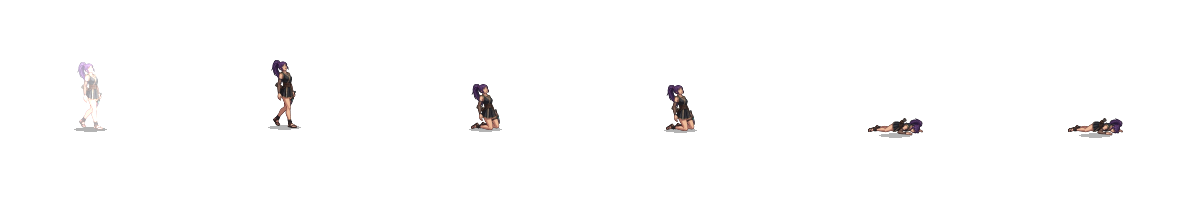
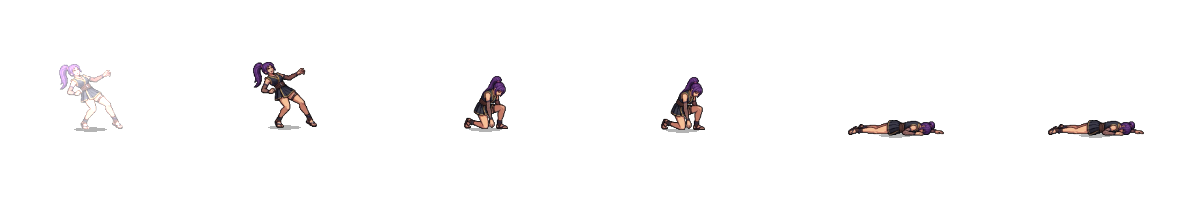
fix: generate wide (16:9) kunoichi spritesheets to eliminate clipping on slash/kick, rebalance kunai damage to 45 (weaker than light punch), and add 520ms endlag recovery

diff --git a/src/objects/Fighter.ts b/src/objects/Fighter.ts
@@ -793,11 +793,14 @@ export class Fighter extends Phaser.Physics.Arcade.Sprite {
           this.isCrouching = this.opponent.isCrouching;
         }
       } else if (absDist > 160) {
-        // ★ くのいち専用AI：遠距離からの苦無（クナイ）投擲！
-        if (this.spriteKey === 'kunoichi' && now >= this.cpuNextAttackReadyTime && now >= this.canAttackTime && isGrounded && Math.random() < 0.65) {
-          this.triggerAttack('stand_mp');
-          this.cpuNextAttackReadyTime = now + 900;
-          return;
+        // ★ くのいち専用AI：遠距離からの苦無投擲（乱射防止・適切なクールダウン）
+        if (this.spriteKey === 'kunoichi' && now >= this.cpuNextAttackReadyTime && now >= this.canAttackTime && isGrounded) {
+          const hasProj = (this.scene as any).hasActiveProjectile?.(this) ?? false;
+          if (!hasProj && Math.random() < 0.35) {
+            this.triggerAttack('stand_mp');
+            this.cpuNextAttackReadyTime = now + 1800; // 1.8秒のクールダウン
+            return;
+          }
         }
         this.cpuAction = 'approach';
         this.isCrouching = false;
@@ -1286,13 +1289,21 @@ export class Fighter extends Phaser.Physics.Arcade.Sprite {
         // くのいち専用: 華麗な旋風脚キック！
         animKey = 'kunoichi_kick';
       } else if (isHeavy || kind === 'stand_mp') {
-        // くのいち専用: 苦無（クナイ）投擲！遠距離・強攻撃で飛び道具射出
-        animKey = 'kunoichi_attack2';
-        this.scene.time.delayedCall(80, () => {
-          if (this.isAttacking && !this.isDead && !this.isStunned) {
-            (this.scene as any).spawnProjectile?.(this);
-          }
-        });
+        // くのいち専用: 苦無（クナイ）投擲！
+        // ★ 画面内に既に自分の苦無が存在する場合は連射不可（格ゲー伝統の1発制限）
+        const hasProj = (this.scene as any).hasActiveProjectile?.(this) ?? false;
+        if (hasProj) {
+          // 画面に苦無がある間は近接斬撃に化ける
+          animKey = 'kunoichi_attack1';
+        } else {
+          animKey = 'kunoichi_attack2';
+          // 予備動作（発生110ms）ののちに苦無射出
+          this.scene.time.delayedCall(110, () => {
+            if (this.isAttacking && !this.isDead && !this.isStunned) {
+              (this.scene as any).spawnProjectile?.(this);
+            }
+          });
+        }
       } else {
         // くのいち専用: 鋭利な苦無近接斬撃！
         animKey = 'kunoichi_attack1';
@@ -1323,6 +1334,9 @@ export class Fighter extends Phaser.Physics.Arcade.Sprite {
     if (animKey.endsWith('_kick')) {
       duration = 320;
     }
+    if (animKey === 'kunoichi_attack2') {
+      duration = 420; // 苦無投擲の振り抜き動作
+    }
 
     if (this.attackSafetyTimer) this.attackSafetyTimer.remove();
     this.attackSafetyTimer = this.scene.time.delayedCall(duration, () => {
@@ -1344,7 +1358,9 @@ export class Fighter extends Phaser.Physics.Arcade.Sprite {
     // ★ 本格格闘ゲーム仕様：技ごとの後隙（硬直時間）
     // 後隙中は移動・ジャンプ・ガードが一切できず、攻撃を受けると「パニッシュカウンター」確定！
     let recovery = 280;
-    if (wasKind === 'crouch_hk') {
+    if (this.spriteKey === 'kunoichi' && (wasKind === 'stand_mp' || wasKind === 'stand_hp')) {
+      recovery = 520; // ★ くのいち苦無投擲の特大後隙！相手の飛び込みに対して確定反撃される明確な隙を作る
+    } else if (wasKind === 'crouch_hk') {
       recovery = 520; // 名物「大足・足払い」はガード・空振り時に特大の隙！
     } else if (wasKind === 'drive_impact') {
       recovery = 560; // ドライブインパクト空振りの特大隙！

diff --git a/src/objects/Projectile.ts b/src/objects/Projectile.ts
@@ -28,7 +28,7 @@ export class Projectile extends Phaser.GameObjects.Container {
     super(config.scene, config.x, config.y);
     this.owner = config.owner;
     this.target = config.target;
-    this.damage = config.damage ?? 75;
+    this.damage = config.damage ?? 45;
     const speed = config.speed ?? 720;
     this.vx = config.direction === 'right' ? speed : -speed;
 
@@ -110,13 +110,14 @@ export class Projectile extends Phaser.GameObjects.Container {
     const isGuarding = this.target.isGuarding;
 
     if (isGuarding) {
-      this.target.consumeDrive(0.35);
+      this.target.consumeDrive(0.06);
       this.target.onGuardSuccess(knockbackDir);
       SoundManager.getInstance().playGuard();
       this.createHitSpark(0x60a5fa);
     } else {
-      this.target.takeDamage(this.damage, knockbackDir, 'stand_hp');
-      SoundManager.getInstance().playHit('medium');
+      // 弱パンチ相当（より控えめ）のダメージと軽ヒットストップ
+      this.target.takeDamage(this.damage, knockbackDir, 'stand_lp');
+      SoundManager.getInstance().playHit('light');
       this.createHitSpark(0xc084fc);
     }
 

diff --git a/src/scenes/GameScene.ts b/src/scenes/GameScene.ts
@@ -746,6 +746,10 @@ export class GameScene extends Phaser.Scene {
     });
   }
 
+  public hasActiveProjectile(owner: Fighter): boolean {
+    return this.projectiles.some(p => p.owner === owner && p.isActive);
+  }
+
   public spawnProjectile(owner: Fighter): void {
     const target = (owner === this.player1) ? this.player2 : this.player1;
     const dir = owner.attackFacing;
@@ -760,7 +764,7 @@ export class GameScene extends Phaser.Scene {
       y: startY,
       direction: dir,
       speed: 760,
-      damage: 85,
+      damage: 45, // 弱パンチ（75）よりも控えめな牽制ダメージ
       textureKey: 'kunoichi_kunai'
     });
     this.projectiles.push(proj);
